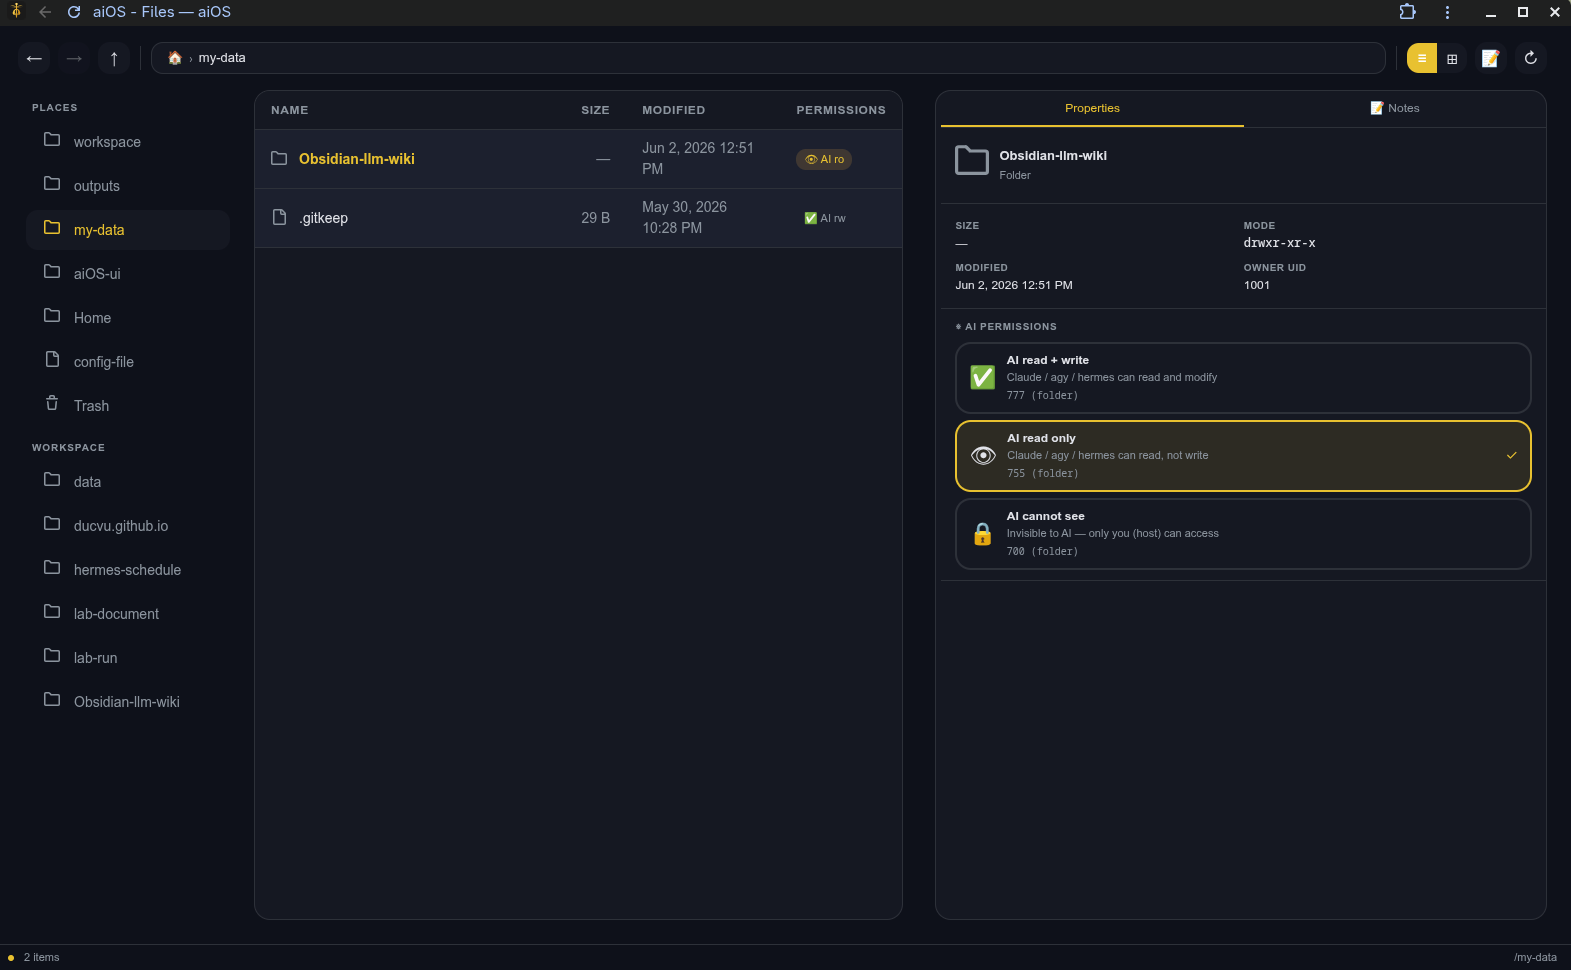
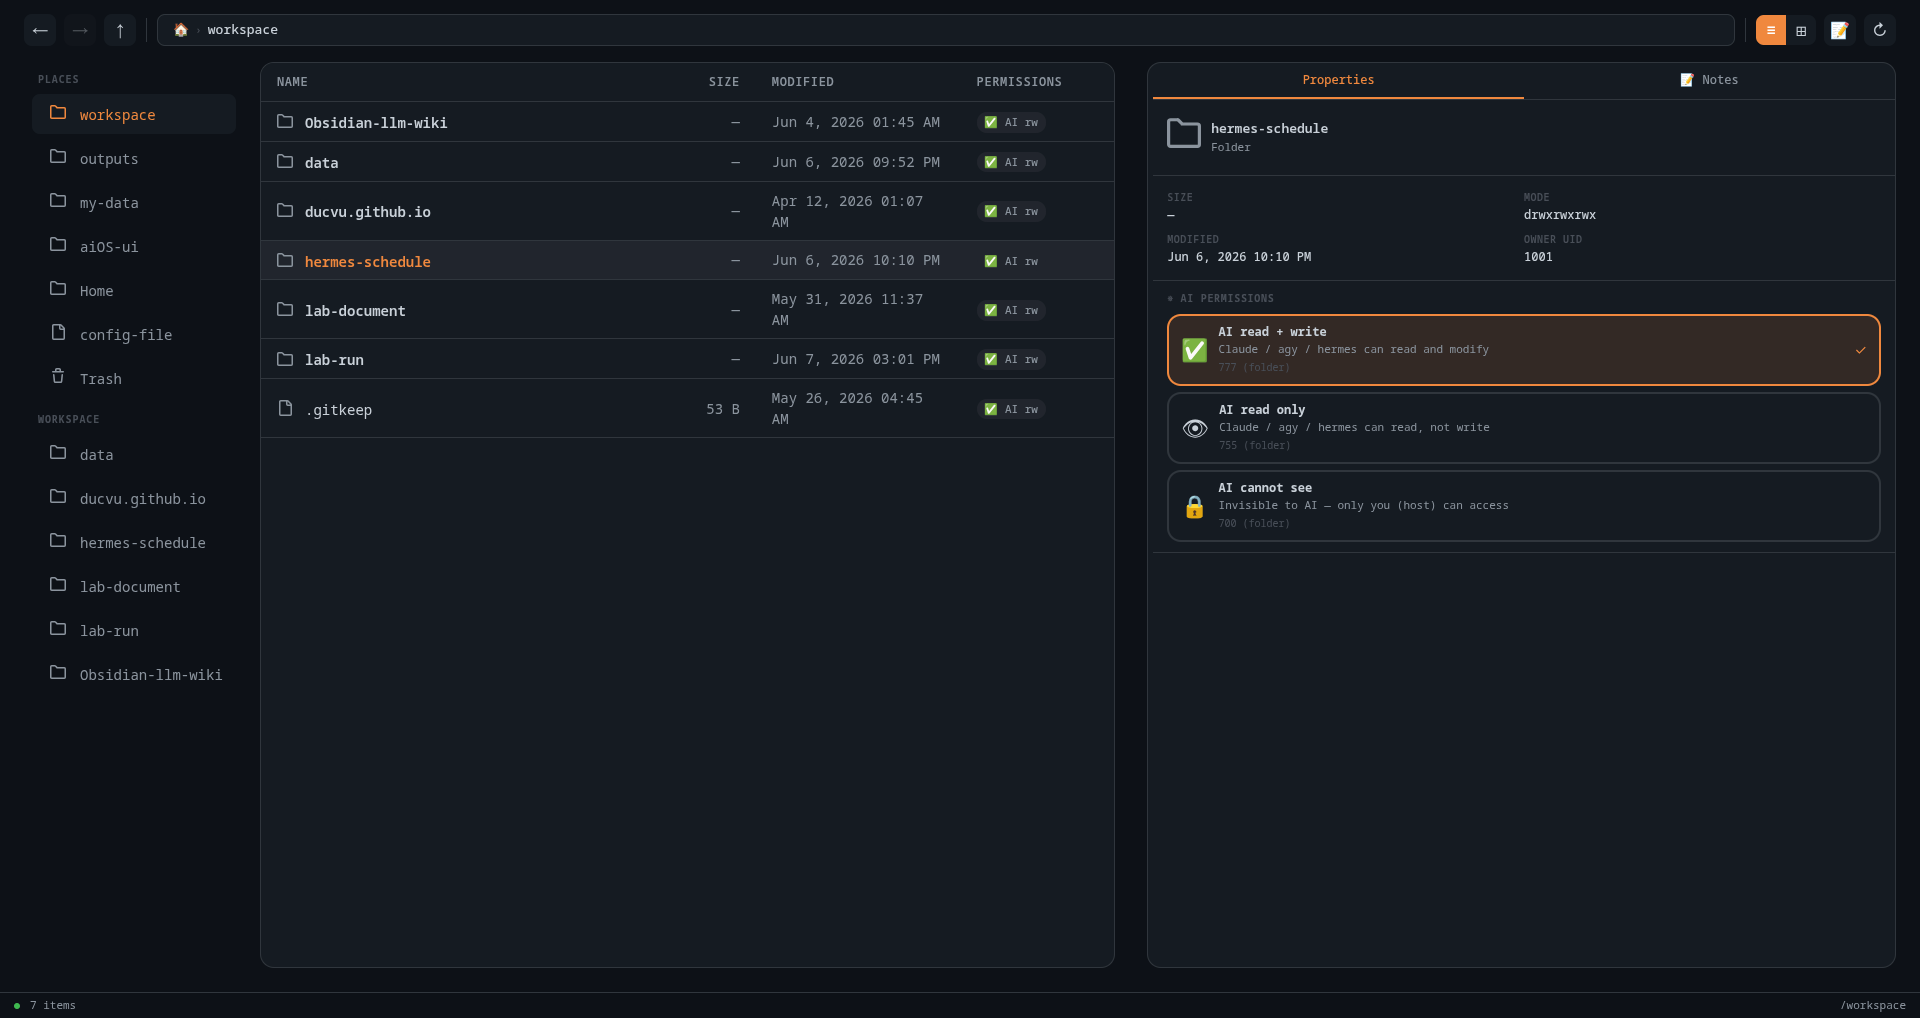
Change README.md

diff --git a/README.md b/README.md
@@ -11,21 +11,15 @@ By leveraging the **Sidecar Pattern**, it isolates the heavy AI sandbox from you
 ## 🖼 Features & Screenshots
 
 ### Multi-pane Workspace Terminals
-Access multiple interactive shell environments seamlessly inside the AI sandbox.
-
-<img src="./assets/workspace-terminals.png" alt="Workspace Terminals" width="800"/>
 
 ### Secure File Browser
+
 Browse, manage files, and configure AI read/write boundaries visually.
 
 <img src="assets/file-browser.png" alt="File Browser" width="800"/>
 
-### Terminal Type Options (Normal / Root)
-Choose between a Normal Terminal (`ai_user` user) or a Root Terminal (`root` user) directly from the dropdown to run commands with administrative privileges inside the sandbox.
-
-<img src="assets/terminal-type.png" alt="Terminal Type Options" width="800"/>
-
 ### File & Folder Context Menu Actions
+
 Right-click any file or directory in the workspace browser to run quick terminal operations. Includes natural-language actions like **Open Directory**, **Edit File**, and **View File**, which automatically determine the target terminal pane and run the corresponding commands. Features viewport collision detection to flip submenus to the left if opened near the screen's right edge.
 
 <img src="assets/file-folder-terminal-feature.png" alt="File & Folder Context Menu" width="800"/>
